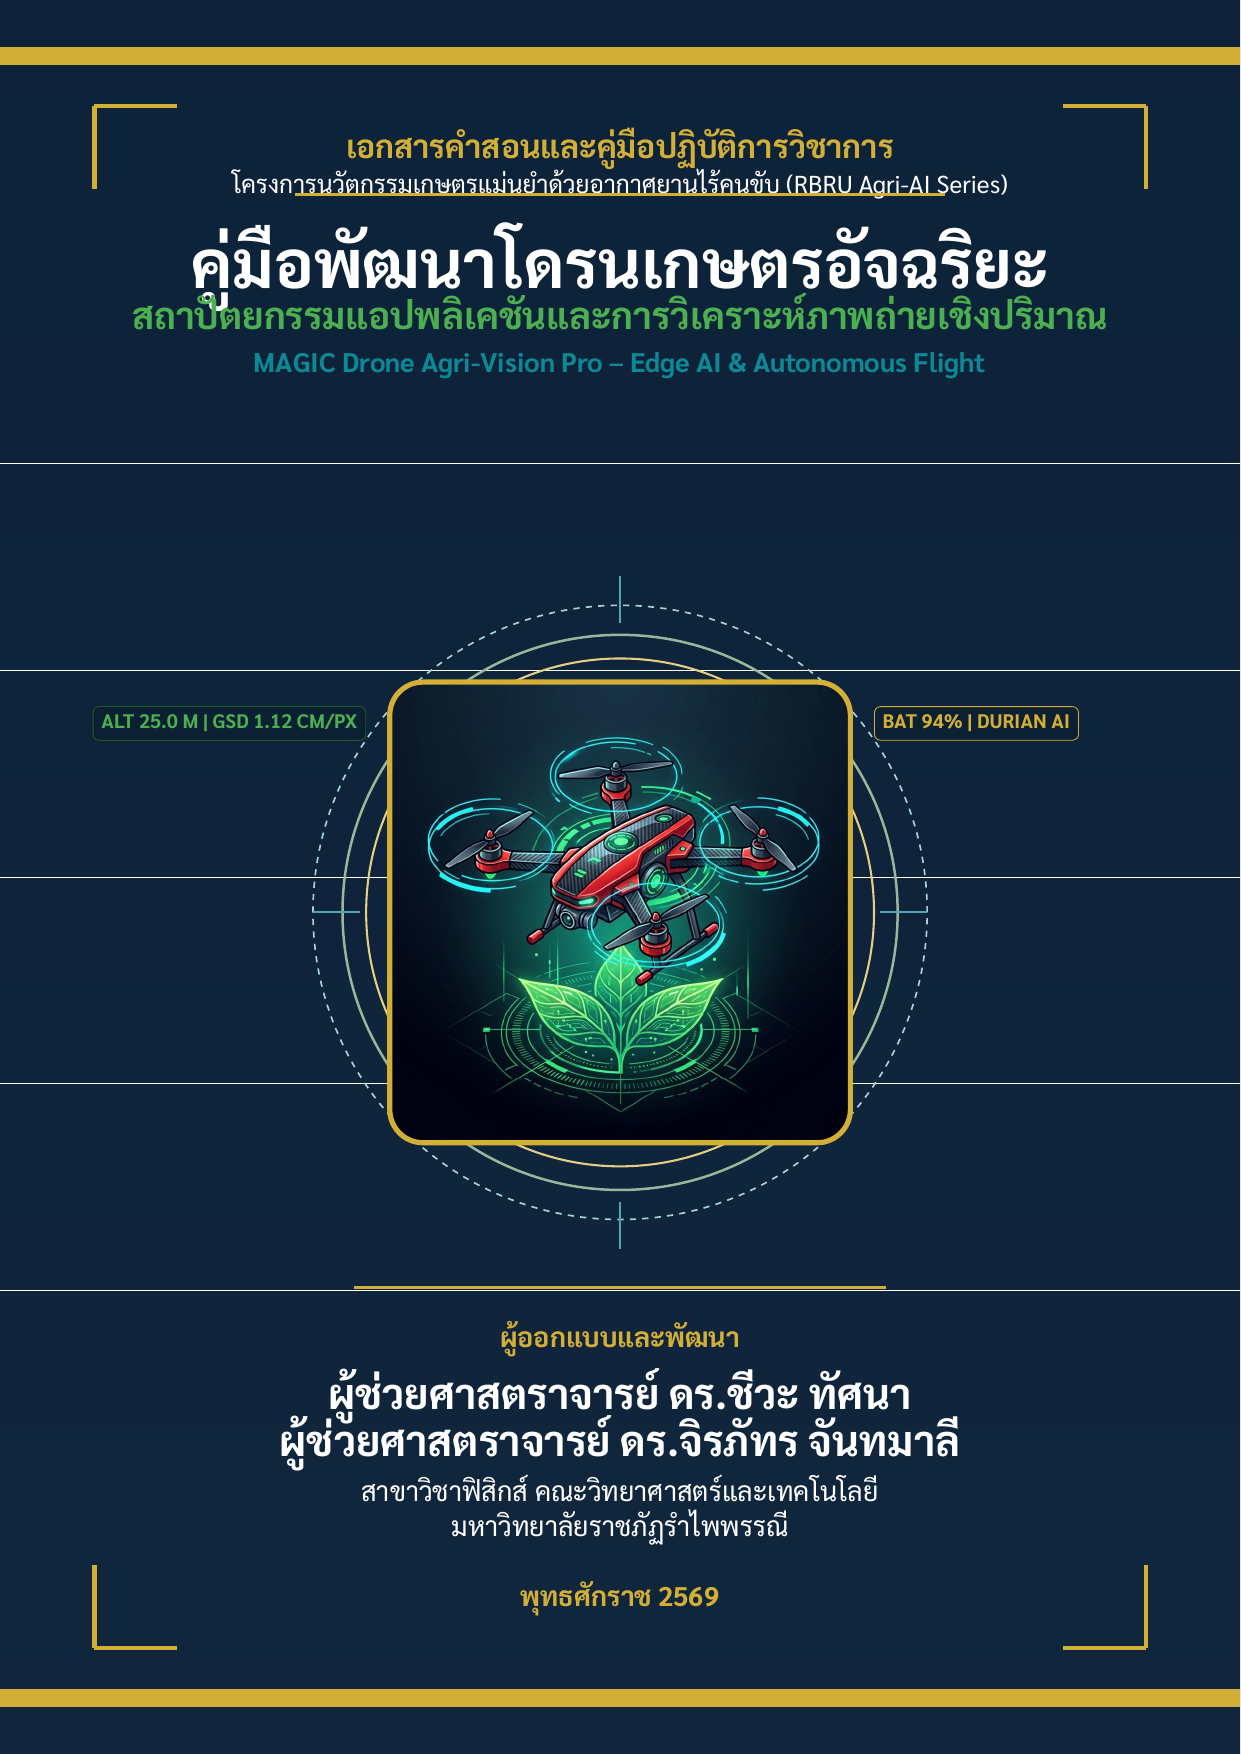
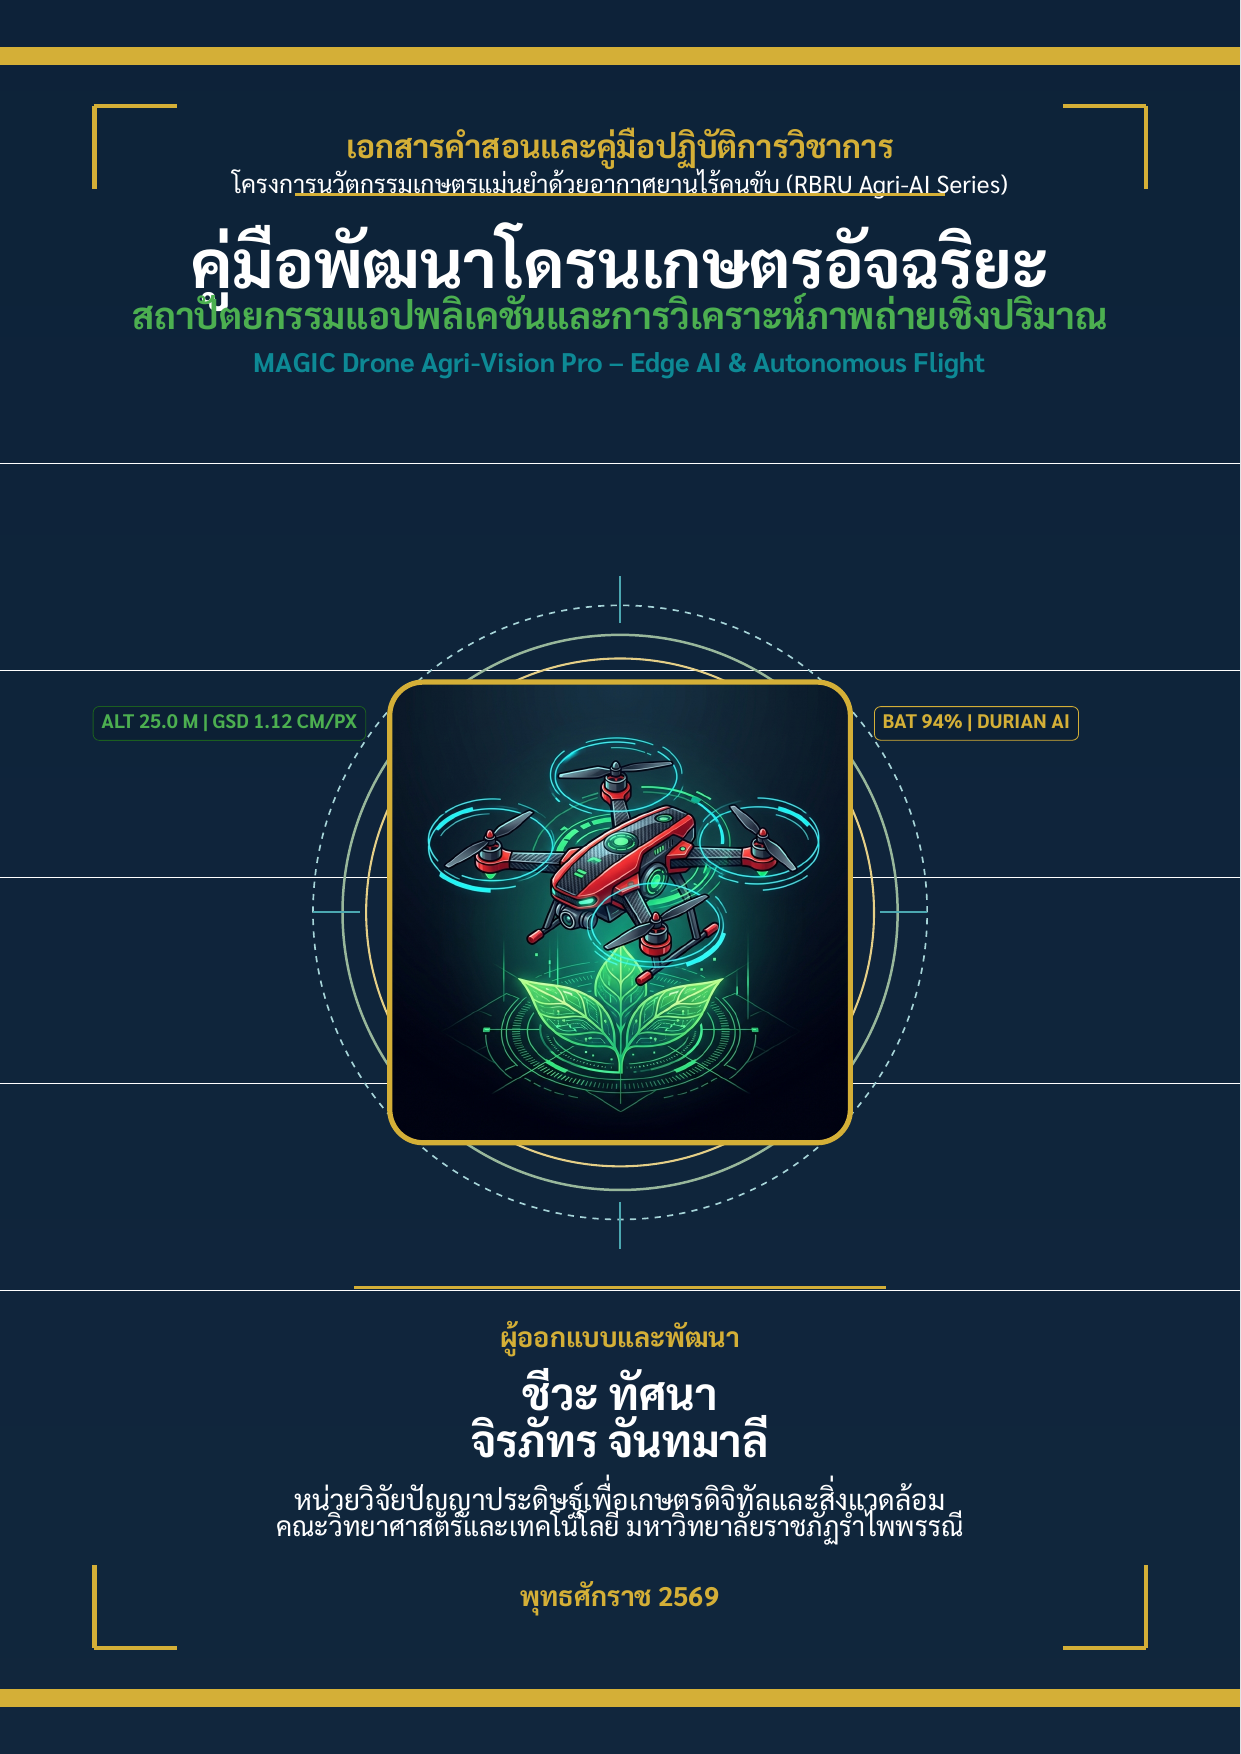
docs(cover): update author names and affiliation to AI Research Unit for Digital Agriculture and Environment

Changed region(s): [[0.2143, 0.7697, 0.7961, 0.8928]]

diff --git a/manual_rbru_latex/frontmatter/cover.tex b/manual_rbru_latex/frontmatter/cover.tex
@@ -85,16 +85,16 @@
         {\fontsize{11}{14}\selectfont\color{rbruGold}\textbf{ผู้ออกแบบและพัฒนา}}
     };
     \node[anchor=north] at ($(current page.south)+(0,67mm)$) {
-        {\fontsize{17}{21}\selectfont\bfseries\color{white}ผู้ช่วยศาสตราจารย์ ดร.ชีวะ ทัศนา}
+        {\fontsize{18}{22}\selectfont\bfseries\color{white}ชีวะ ทัศนา}
     };
     \node[anchor=north] at ($(current page.south)+(0,59mm)$) {
-        {\fontsize{17}{21}\selectfont\bfseries\color{white}ผู้ช่วยศาสตราจารย์ ดร.จิรภัทร จันทมาลี}
+        {\fontsize{18}{22}\selectfont\bfseries\color{white}จิรภัทร จันทมาลี}
     };
     \node[anchor=north] at ($(current page.south)+(0,49mm)$) {
-        {\fontsize{11}{14}\selectfont\color{white!85}สาขาวิชาฟิสิกส์ คณะวิทยาศาสตร์และเทคโนโลยี}
+        {\fontsize{11.5}{15}\selectfont\color{white!90}หน่วยวิจัยปัญญาประดิษฐ์เพื่อเกษตรดิจิทัลและสิ่งแวดล้อม}
     };
     \node[anchor=north] at ($(current page.south)+(0,43mm)$) {
-        {\fontsize{11}{14}\selectfont\color{white!85}มหาวิทยาลัยราชภัฏรำไพพรรณี}
+        {\fontsize{11}{14}\selectfont\color{white!80}คณะวิทยาศาสตร์และเทคโนโลยี มหาวิทยาลัยราชภัฏรำไพพรรณี}
     };
     \node[anchor=north] at ($(current page.south)+(0,31mm)$) {
         {\fontsize{11}{14}\selectfont\color{rbruGold}\textbf{พุทธศักราช 2569}}
